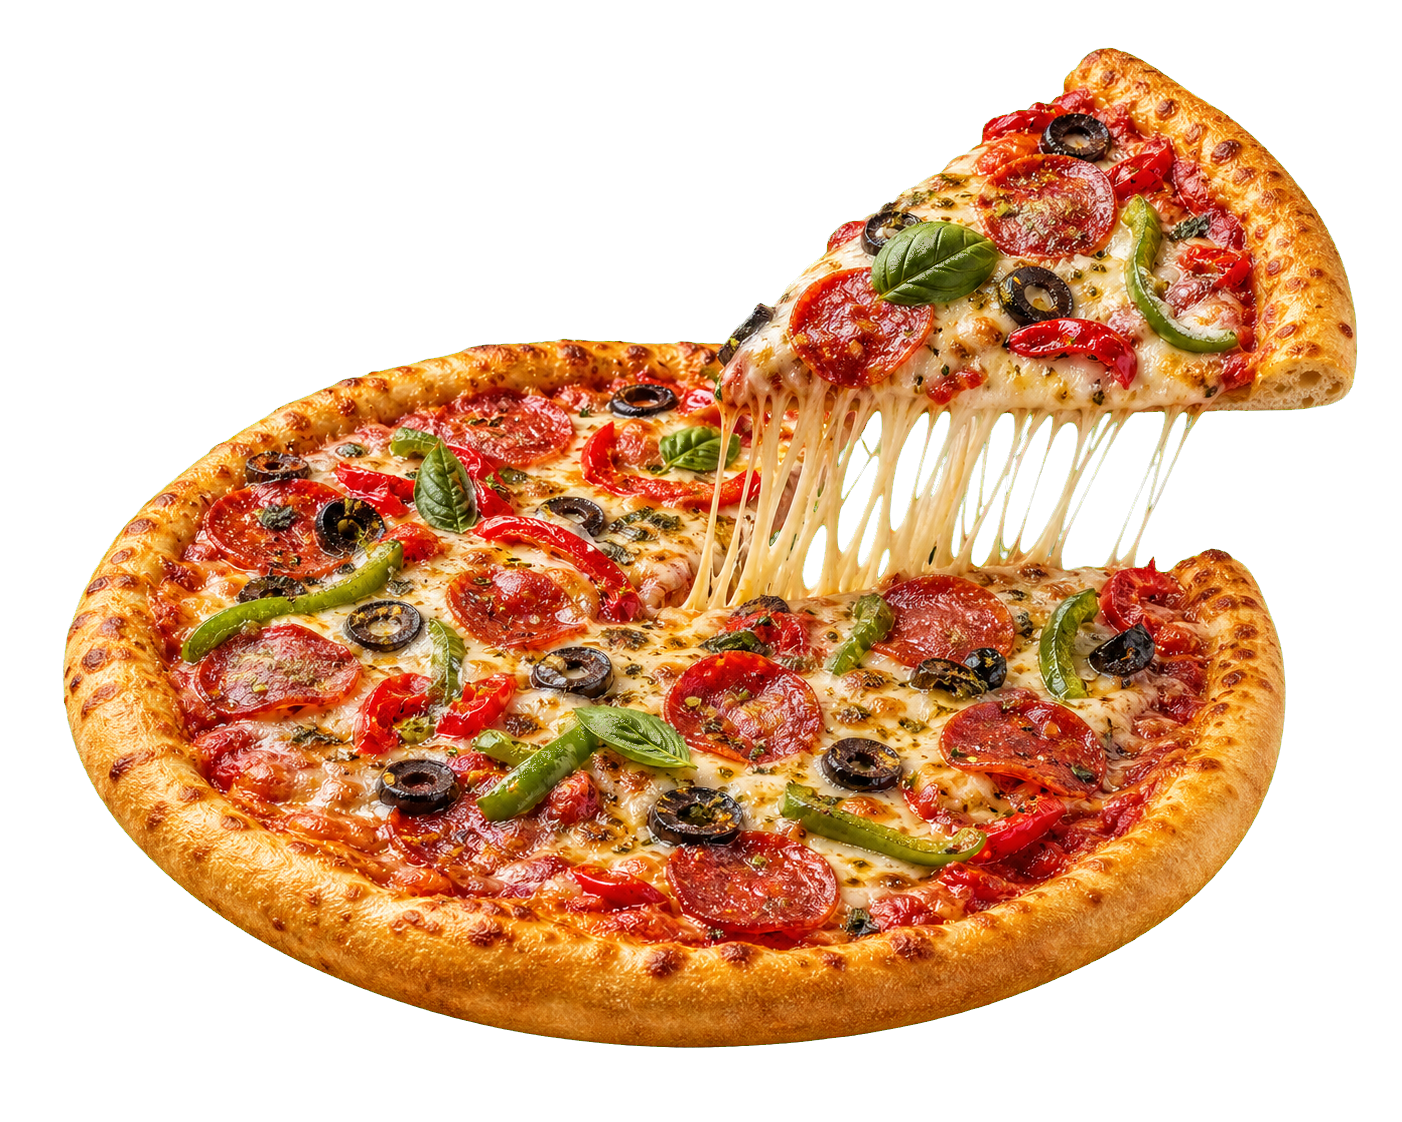
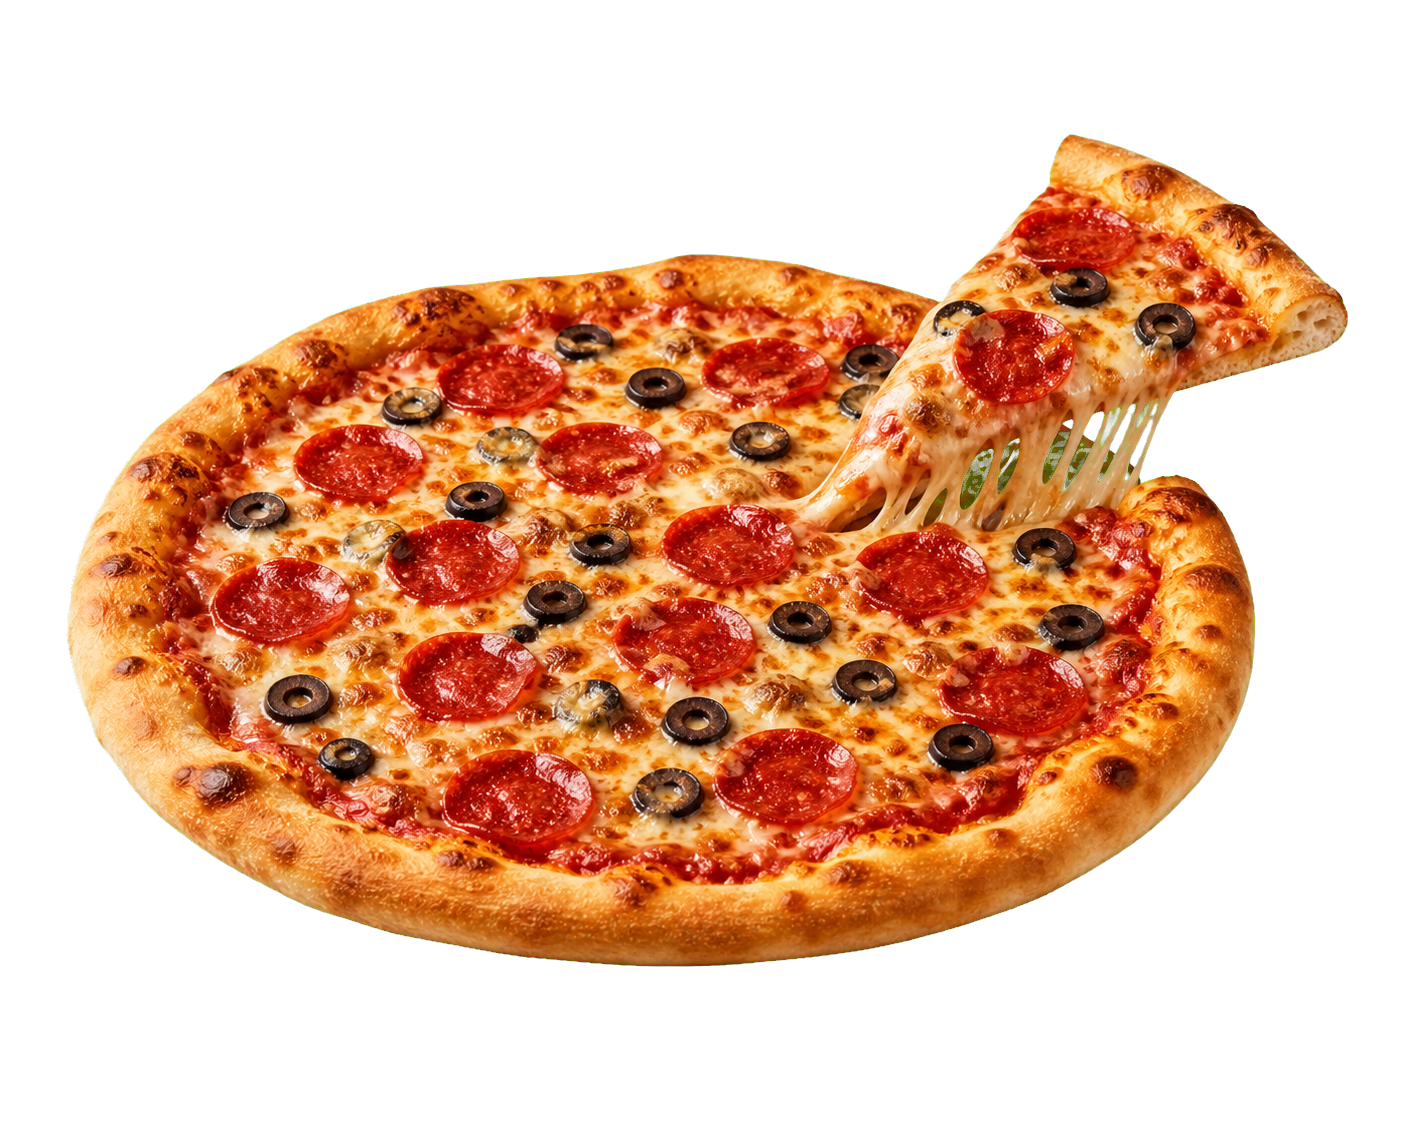
Replace filtered pizza visuals with original food imagery

diff --git a/src/components/Hero.jsx b/src/components/Hero.jsx
@@ -3,64 +3,18 @@ import { Plus } from 'lucide-react'
 import { heroImage } from '../data/pizzas'
 
 export default function Hero({ pizza, pizzas, onSelect, onAdd }) {
-  return (
-    <section id="top" className="px-3 pb-12 pt-5 sm:px-6 sm:pb-20">
-      <div className="hero-stage relative mx-auto min-h-[680px] max-w-[1360px] overflow-hidden rounded-[32px] bg-white shadow-soft lg:min-h-[770px]">
-        <div className="absolute inset-0 z-0 bg-white" />
-        <div className="hero-product-plane absolute inset-x-[2.2%] bottom-7 top-[51%] z-[2] rounded-[26px] bg-[#efdbc7]" />
-
-        <h1 className="hero-title absolute left-1/2 top-[94px] z-[1] w-[95%] -translate-x-1/2 text-center font-display text-[clamp(3.55rem,8.35vw,9.15rem)] leading-[.73] tracking-[-.085em] text-ink">
-          <span className="text-tomato">НОВАЯ</span> ПИЦЦА<br />КОЛЛЕКЦИЯ
-        </h1>
-
-        <div className="hero-pizza absolute left-1/2 top-[55%] z-[3] w-[min(91vw,710px)] -translate-x-1/2 -translate-y-[35%] lg:w-[710px]">
-          <motion.img
-            key={pizza.id}
-            initial={{ opacity: 0, scale: 0.9, rotate: -2 }}
-            animate={{ opacity: 1, scale: 1, rotate: 0 }}
-            transition={{ duration: 0.65, type: 'spring' }}
-            src={heroImage}
-            alt={`Пицца ${pizza.name} с тянущимся сыром`}
-            className="w-full drop-shadow-[0_38px_30px_rgba(73,30,8,.30)]"
-            style={{ filter: `hue-rotate(${pizza.tone}) saturate(1.08)` }}
-          />
-        </div>
-        <img
-          src={heroImage}
-          aria-hidden="true"
-          alt=""
-          className="hero-lifted-slice pointer-events-none absolute left-[54%] top-[51%] z-[4] w-[min(84vw,630px)] -translate-x-1/2 -translate-y-[40%] lg:w-[630px]"
-          style={{ clipPath: 'polygon(53% 0, 100% 0, 100% 52%, 70% 47%)', filter: `hue-rotate(${pizza.tone}) saturate(1.08)` }}
-        />
-
-        <motion.button
-          whileHover={{ scale: 1.07, rotate: 5 }}
-          whileTap={{ scale: 0.95 }}
-          onClick={() => onAdd(pizza)}
-          className="absolute bottom-[166px] right-5 z-[5] grid h-[74px] w-[74px] place-items-center rounded-full bg-tomato text-center text-[9px] font-extrabold uppercase leading-3 text-white shadow-float sm:right-9 lg:bottom-auto lg:right-[122px] lg:top-[53%] lg:h-[84px] lg:w-[84px]"
-        >
-          <span><Plus className="mx-auto mb-1" size={18} /><span className="block">в корзину</span></span>
-        </motion.button>
-
-        <div className="absolute right-4 top-1/2 z-[5] flex -translate-y-1/2 flex-col gap-3 sm:right-7 lg:right-[30px]">
-          {pizzas.slice(0, 3).map((item) => (
-            <button
-              key={item.id}
-              onClick={() => onSelect(item)}
-              className={`h-[54px] w-[54px] overflow-hidden rounded-xl border-2 bg-[#f6d9c3] transition sm:h-[64px] sm:w-[64px] ${pizza.id === item.id ? 'border-tomato shadow-md' : 'border-white hover:border-tomato/40'}`}
-              aria-label={`Выбрать ${item.name}`}
-            >
-              <img src={heroImage} alt="" className="h-full w-full scale-125 object-cover" style={{ filter: `hue-rotate(${item.tone}) saturate(1.1)` }} />
-            </button>
-          ))}
-        </div>
-
-        <div className="absolute bottom-6 left-1/2 z-[6] flex w-max max-w-[94%] -translate-x-1/2 flex-wrap justify-center gap-2">
-          {['Тесто — вручную', 'Соус — итальянские томаты', 'Сыр — моцарелла'].map((tag) => (
-            <span key={tag} className="rounded-xl bg-white/90 px-3 py-2 text-[9px] font-extrabold uppercase text-ink shadow-md backdrop-blur sm:text-[10px]">{tag}</span>
-          ))}
-        </div>
+  return <section id="top" className="px-3 pb-12 pt-5 sm:px-6 sm:pb-20">
+    <div className="hero-stage relative mx-auto min-h-[660px] max-w-[1360px] overflow-hidden rounded-[32px] bg-[#fffdfa] shadow-soft lg:min-h-[730px]">
+      <div className="hero-halo absolute bottom-[-10%] left-1/2 z-[2] h-[42%] w-[64%] -translate-x-1/2 rounded-[50%] bg-[#efd1b5]/60 blur-2xl" />
+      <h1 className="hero-title absolute left-1/2 top-[104px] z-[1] w-[92%] -translate-x-1/2 whitespace-nowrap text-center font-display text-[clamp(3rem,7.25vw,8.65rem)] leading-[.85] tracking-[-.055em] text-ink"><span className="text-tomato">NEW</span> PIZZA COLLECTION</h1>
+      <motion.div key={pizza.id} initial={{ opacity: 0, scale: 0.95, y: 14 }} animate={{ opacity: 1, scale: 1, y: 0 }} transition={{ duration: 0.45 }} className="hero-pizza absolute left-1/2 top-[55%] z-[3] w-[min(91vw,680px)] -translate-x-1/2 -translate-y-[35%] lg:w-[680px]">
+        <img src={heroImage} alt={`Пицца ${pizza.name}`} className="w-full drop-shadow-[0_28px_26px_rgba(85,43,20,.22)]" />
+      </motion.div>
+      <motion.button whileHover={{ scale: 1.06, rotate: 4 }} whileTap={{ scale: 0.96 }} onClick={() => onAdd(pizza)} className="absolute bottom-[155px] right-5 z-[5] grid h-[70px] w-[70px] place-items-center rounded-full bg-tomato text-center text-[9px] font-extrabold uppercase leading-3 text-white shadow-float sm:right-9 lg:bottom-auto lg:right-[122px] lg:top-[53%] lg:h-[78px] lg:w-[78px]"><span><Plus className="mx-auto mb-1" size={17} /><span className="block">в корзину</span></span></motion.button>
+      <div className="absolute right-4 top-1/2 z-[5] flex -translate-y-1/2 flex-col gap-3 sm:right-7 lg:right-[30px]">
+        {pizzas.slice(0, 3).map((item) => <button key={item.id} onClick={() => onSelect(item)} className={`h-[54px] w-[54px] overflow-hidden rounded-xl border-2 bg-[#f6d9c3] transition sm:h-[62px] sm:w-[62px] ${pizza.id === item.id ? 'border-tomato shadow-md' : 'border-white hover:border-tomato/40'}`} aria-label={`Выбрать ${item.name}`}><img src={item.image} alt="" className="h-full w-full object-cover" /></button>)}
       </div>
-    </section>
-  )
+      <div className="absolute bottom-6 left-1/2 z-[6] flex w-max max-w-[94%] -translate-x-1/2 flex-wrap justify-center gap-2">{['Тесто — вручную', 'Соус — итальянские томаты', 'Сыр — моцарелла'].map((tag) => <span key={tag} className="rounded-xl bg-white/90 px-3 py-2 text-[9px] font-extrabold uppercase text-ink shadow-sm backdrop-blur sm:text-[10px]">{tag}</span>)}</div>
+    </div>
+  </section>
 }

diff --git a/src/data/pizzas.js b/src/data/pizzas.js
@@ -1,10 +1,10 @@
 export const pizzas = [
-  { id: 'pepperoni', name: 'Пепперони', subtitle: 'Легенда с острым характером', description: 'Пепперони, моцарелла, фирменный томатный соус и орегано.', price: 690, size: '30 см', tone: '0deg' },
-  { id: 'margarita', name: 'Маргарита', subtitle: 'Ничего лишнего — только вкус', description: 'Томаты, двойная моцарелла, базилик и итальянский соус.', price: 590, size: '30 см', tone: '28deg' },
-  { id: 'cheese', name: 'Четыре сыра', subtitle: 'Нежная и очень сырная', description: 'Моцарелла, пармезан, дорблю, чеддер и сливочный соус.', price: 760, size: '30 см', tone: '195deg' },
-  { id: 'meat', name: 'Мясная', subtitle: 'Для тех, кто голоден всерьёз', description: 'Бекон, ветчина, пепперони, говядина, лук и моцарелла.', price: 790, size: '30 см', tone: '330deg' },
-  { id: 'mushroom', name: 'Грибная', subtitle: 'Тёплый вкус леса', description: 'Шампиньоны, трюфельный крем, моцарелла и тимьян.', price: 680, size: '30 см', tone: '70deg' },
-  { id: 'bbq', name: 'BBQ цыплёнок', subtitle: 'Дымный, сладкий, сочный', description: 'Цыплёнок, соус BBQ, красный лук, бекон и моцарелла.', price: 740, size: '30 см', tone: '310deg' },
+  { id: 'pepperoni', name: 'Пепперони', description: 'Пепперони, моцарелла, фирменный томатный соус и орегано.', price: 690, size: '30 см', image: '/pizzario-landing/assets/pizzas/pepperoni.jpg' },
+  { id: 'margarita', name: 'Маргарита', description: 'Томаты, двойная моцарелла, базилик и итальянский соус.', price: 590, size: '30 см', image: '/pizzario-landing/assets/pizzas/margarita.jpg' },
+  { id: 'cheese', name: 'Четыре сыра', description: 'Моцарелла, пармезан, дорблю, чеддер и сливочный соус.', price: 760, size: '30 см', image: '/pizzario-landing/assets/pizzas/four-cheese.jpg' },
+  { id: 'meat', name: 'Мясная', description: 'Бекон, ветчина, пепперони, говядина, лук и моцарелла.', price: 790, size: '30 см', image: '/pizzario-landing/assets/pizzas/meat.jpg' },
+  { id: 'mushroom', name: 'Грибная', description: 'Шампиньоны, трюфельный крем, моцарелла и тимьян.', price: 680, size: '30 см', image: '/pizzario-landing/assets/pizzas/mushroom.jpg' },
+  { id: 'bbq', name: 'BBQ цыплёнок', description: 'Цыплёнок, соус BBQ, красный лук и моцарелла.', price: 740, size: '30 см', image: '/pizzario-landing/assets/pizzas/bbq.jpg' },
 ]
 
 export const heroImage = '/pizzario-landing/assets/pizza-hero.png'

diff --git a/src/components/PizzaCard.jsx b/src/components/PizzaCard.jsx
@@ -1,13 +1,9 @@
 import { motion } from 'framer-motion'
 import { Plus } from 'lucide-react'
-import { heroImage } from '../data/pizzas'
 
 export default function PizzaCard({ pizza, onAdd, index }) {
-  return <motion.article initial={{opacity:0,y:24}} whileInView={{opacity:1,y:0}} viewport={{once:true,amount:.2}} transition={{delay:index*.05}} whileHover={{y:-7}} className="group relative overflow-hidden rounded-[26px] bg-white p-4 shadow-soft">
-    <div className="relative grid h-52 place-items-center overflow-hidden rounded-[20px] bg-[#f6dcc7]">
-      <span className="absolute left-3 top-3 z-10 rounded-lg bg-white/80 px-2.5 py-1 text-[10px] font-extrabold uppercase text-tomato">{pizza.size}</span>
-      <img src={heroImage} alt={pizza.name} className="w-[130%] rotate-[-10deg] transition duration-500 group-hover:scale-110 group-hover:rotate-0" style={{filter:`hue-rotate(${pizza.tone}) saturate(1.15)`}} />
-    </div>
-    <div className="px-1 pb-1 pt-4"><h3 className="font-display text-2xl leading-none tracking-[-.06em] text-ink">{pizza.name}</h3><p className="mt-2 min-h-10 text-xs font-medium leading-5 text-ink/55">{pizza.description}</p><div className="mt-4 flex items-center justify-between"><span className="text-lg font-extrabold text-ink">{pizza.price} ₽</span><button onClick={() => onAdd(pizza)} className="grid h-10 w-10 place-items-center rounded-xl bg-tomato text-white transition hover:bg-ink" aria-label={`Добавить ${pizza.name}`}><Plus size={20}/></button></div></div>
+  return <motion.article initial={{ opacity: 0, y: 20 }} whileInView={{ opacity: 1, y: 0 }} viewport={{ once: true, amount: 0.15 }} transition={{ delay: index * 0.05 }} whileHover={{ y: -4 }} className="group flex min-h-[430px] flex-col overflow-hidden rounded-[28px] border border-[#e9dac9] bg-[#fffaf4] transition-colors hover:border-tomato/35">
+    <div className="relative m-3 mb-0 aspect-[1.17] overflow-hidden rounded-[21px] bg-[#f1e4d8]"><img src={pizza.image} alt={pizza.name} className="h-full w-full object-cover transition duration-700 group-hover:scale-[1.035]" /><span className="absolute left-3 top-3 rounded-lg bg-white/90 px-2.5 py-1 text-[10px] font-extrabold uppercase tracking-wide text-ink">{pizza.size}</span></div>
+    <div className="flex flex-1 flex-col px-5 pb-5 pt-4"><p className="text-[10px] font-extrabold uppercase tracking-[.16em] text-tomato">Pizzario selection</p><h3 className="mt-1 font-display text-[1.65rem] leading-none tracking-[-.06em] text-ink">{pizza.name}</h3><p className="mt-3 min-h-10 text-xs font-medium leading-5 text-ink/60">{pizza.description}</p><div className="mt-auto flex items-center justify-between pt-5"><span className="text-lg font-extrabold text-ink">{pizza.price} ₽</span><button onClick={() => onAdd(pizza)} className="grid h-10 w-10 place-items-center rounded-full bg-tomato text-white transition hover:bg-ink" aria-label={`Добавить ${pizza.name}`}><Plus size={19} /></button></div></div>
   </motion.article>
 }

diff --git a/src/index.css b/src/index.css
@@ -10,5 +10,4 @@ button { cursor: pointer; }
 .font-display { font-family: 'Archivo Black', sans-serif; }
 .field { border: 1px solid rgba(23,23,23,.13); border-radius: 12px; padding: .9rem 1rem; outline: none; font-size: .875rem; font-weight: 600; transition: border-color .2s, box-shadow .2s; }
 .field:focus { border-color: #c92d25; box-shadow: 0 0 0 3px rgba(201,45,37,.12); }
-@media (max-width: 1023px) { .hero-product-plane { top: 48%; } }
-@media (max-width: 640px) { .hero-title { top: 100px; font-size: clamp(3.2rem, 14.2vw, 5.25rem); } .hero-pizza { top: 56%; } .hero-lifted-slice { left: 55%; top: 52%; } .hero-product-plane { inset-inline: 12px; bottom: 16px; top: 45%; } }
+@media (max-width: 640px) { .hero-title { top: 118px; white-space: normal; font-size: clamp(2.5rem, 10.9vw, 4.25rem); } .hero-pizza { top: 57%; } .hero-halo { width: 92%; height: 35%; } }
